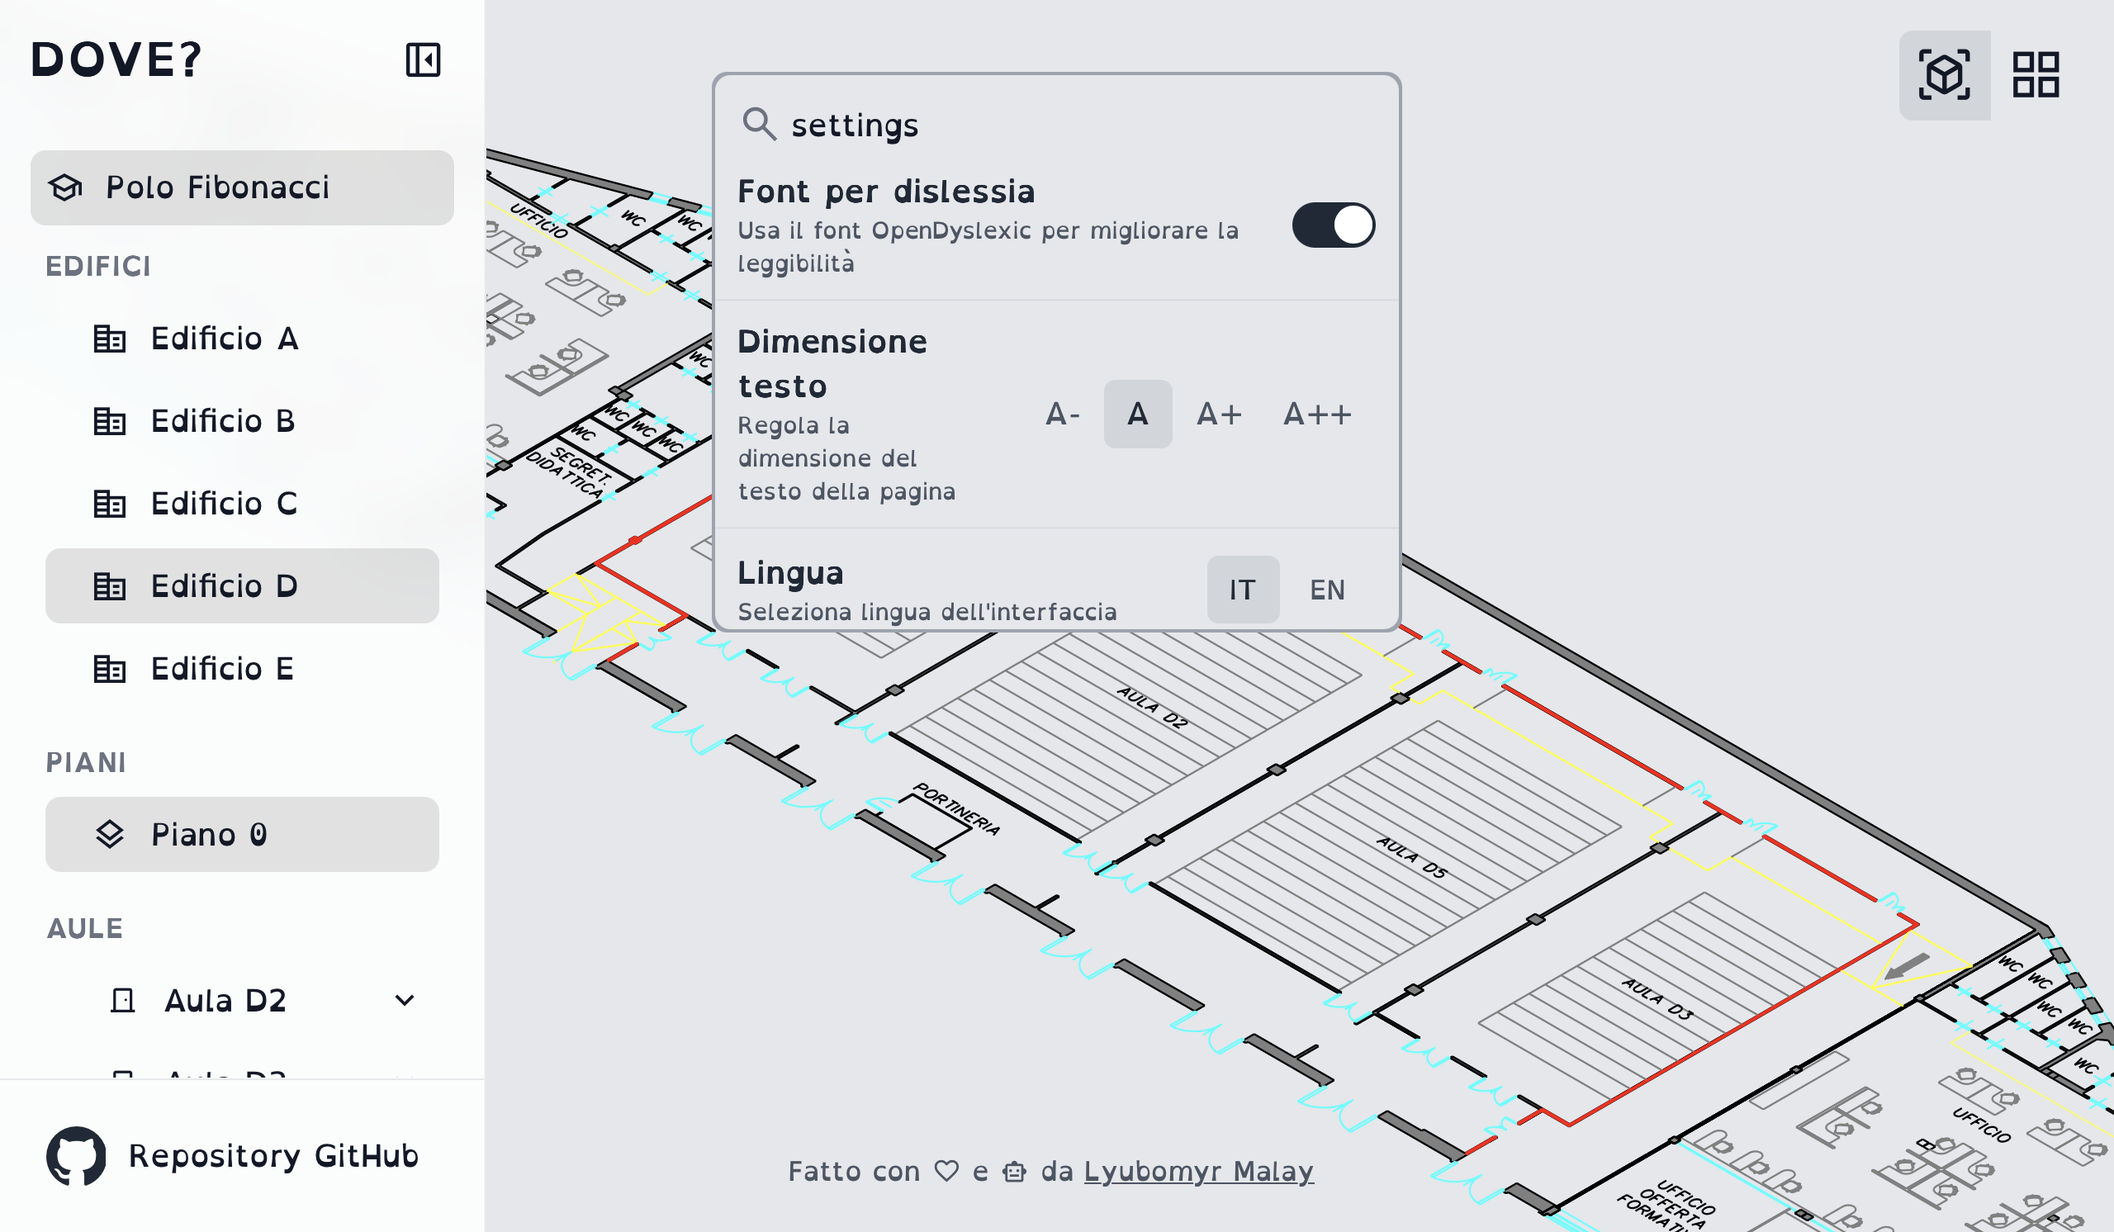
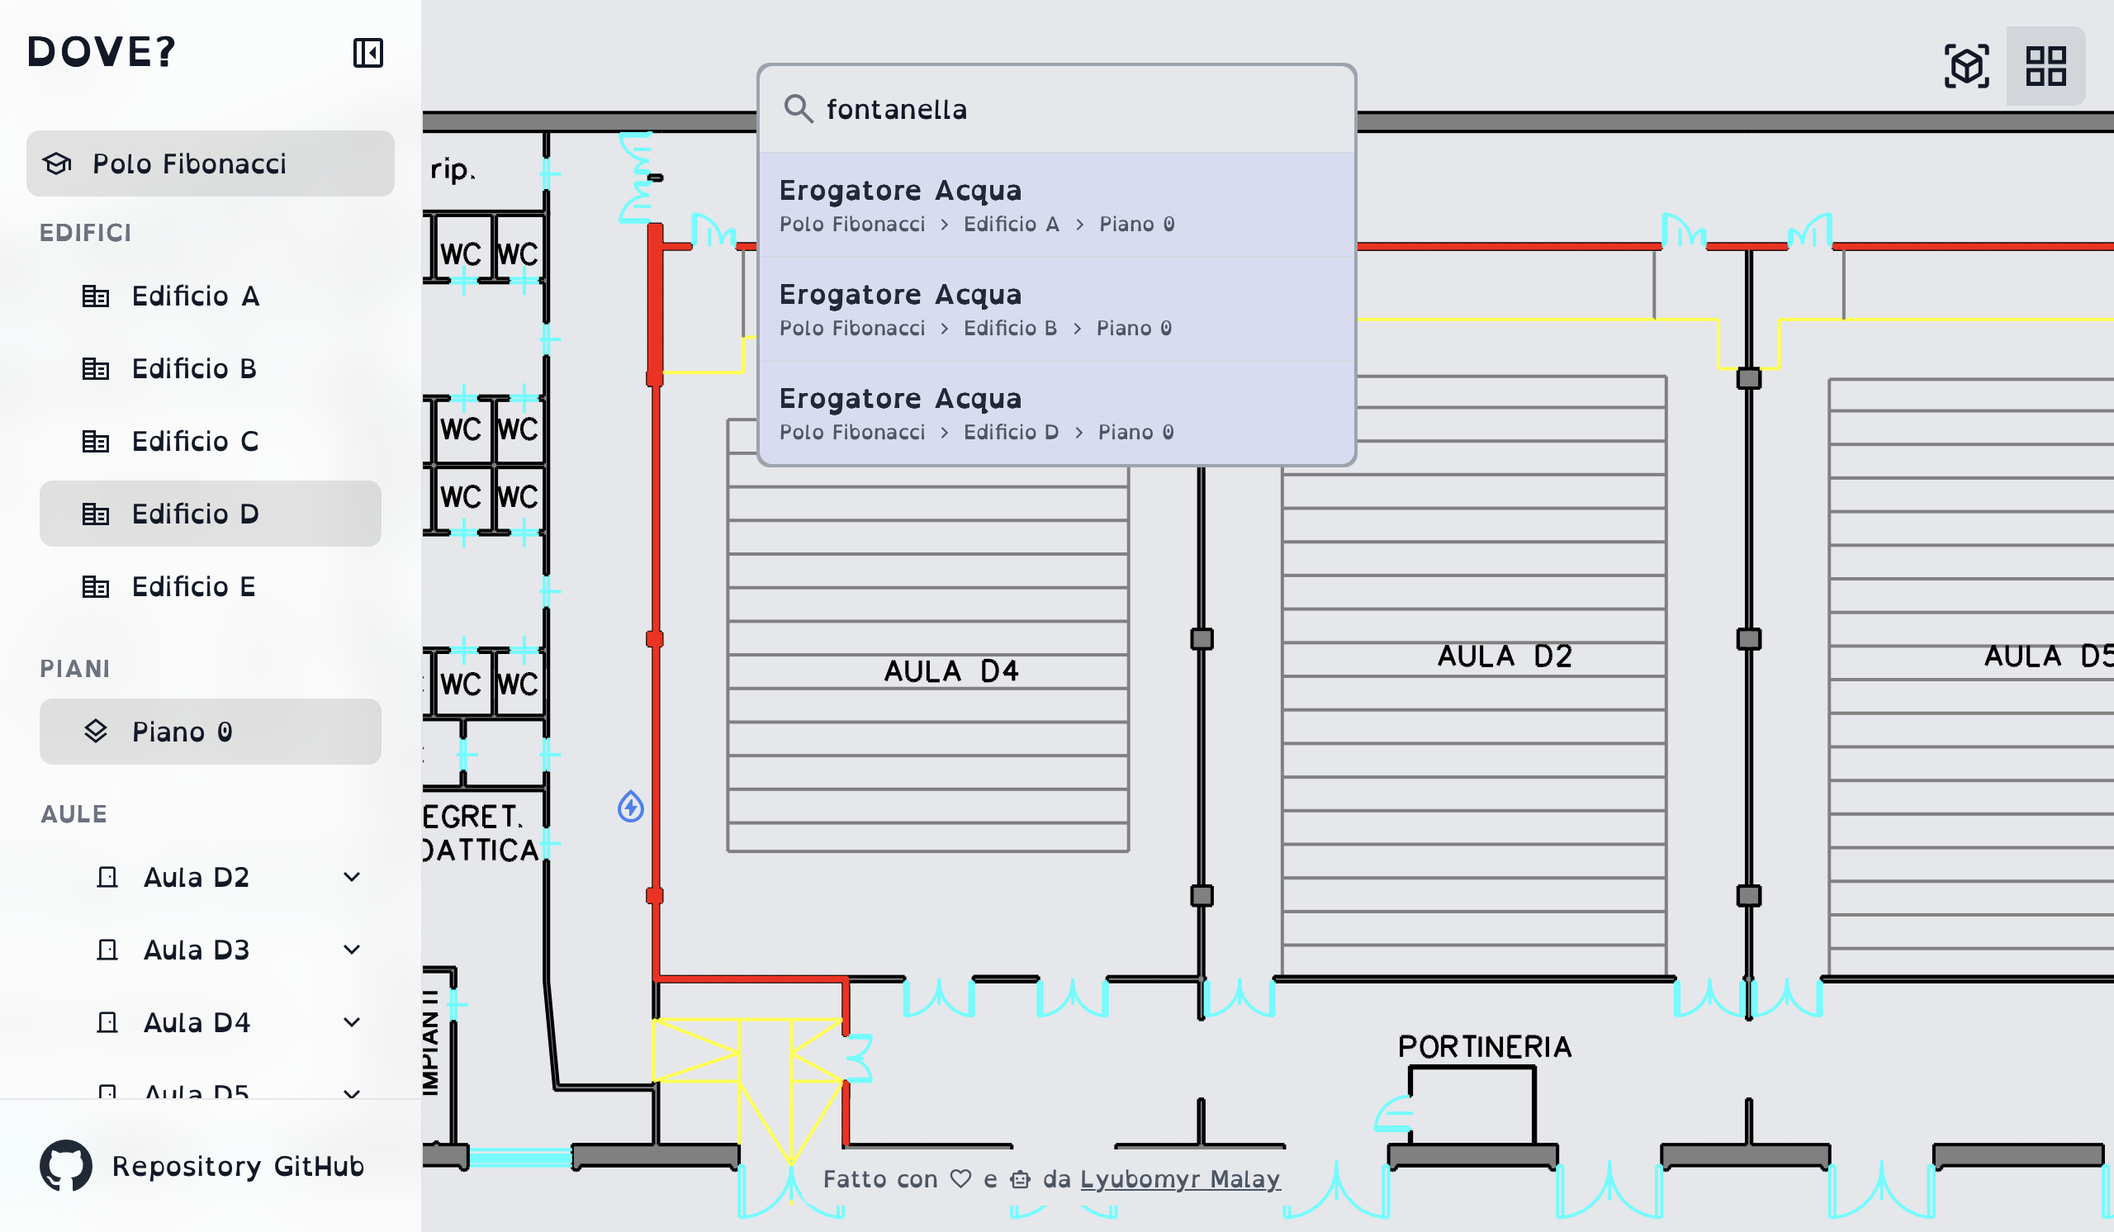
🦣
Aggiornato il flowchart
Aggiornato il readme con la sezione “Altri dati”.
Creato il file facilities.json, da popolare con i dati relativi ai distributori e altro.
Aggiunta la nuova funzionalità in alfa “Mostra erogatori d’acqua”.
Inseriti nuovi alias in rooms.json.
Aggiunto una "guida".

diff --git a/index.html b/index.html
@@ -182,8 +182,29 @@ RMMMMRMMMMME        EMMMMMMMMMMMMM!
             width: 100%; /* Forza la larghezza al 100% del contenitore */
             box-sizing: border-box; /* Include padding nel calcolo della larghezza */
         }
-        .search-result-item:hover {
-            background-color: rgba(0, 0, 0, 0.1); /* 10% black opacity */
+        .search-result-item {
+            position: relative;
+        }
+        .search-result-item::before {
+            content: '';
+            position: absolute;
+            top: 0;
+            left: 0;
+            right: 0;
+            bottom: 0;
+            background-color: transparent;
+            transition: background-color 0.2s ease-in-out;
+            pointer-events: none;
+        }
+        .search-result-item:hover::before {
+            background-color: rgba(0, 0, 0, 0.1);
+        }
+        .search-result-item.selected::before {
+            background-color: rgba(0, 0, 0, 0.1);
+        }
+        /* Stile specifico per gli erogatori d'acqua */
+        .search-result-item.water-dispenser {
+            background-color: rgb(216, 220, 242);
         }
         .search-result-item .title {
             color: #1F2937; /* gray-800 */
@@ -204,9 +225,6 @@ RMMMMRMMMMME        EMMMMMMMMMMMMM!
         .search-result-item:hover .title,
         .search-result-item:hover .details {
             color: #1F2937; /* gray-800 */
-        }
-        .search-result-item.selected {
-            background-color: rgba(0, 0, 0, 0.1); /* 10% black opacity */
         }
         .search-result-item.selected .title,
         .search-result-item.selected .details {
@@ -281,6 +299,12 @@ RMMMMRMMMMME        EMMMMMMMMMMMMM!
         /* Nascondi l'attribuzione di Leaflet */
         .leaflet-control-attribution {
             display: none;
+        }
+
+        /* Stili per i marker degli erogatori d'acqua */
+        .water-dispenser-marker {
+            background: none !important;
+            border: none !important;
         }
 
         /* Stili per i tooltip */
@@ -1207,6 +1231,7 @@ RMMMMRMMMMME        EMMMMMMMMMMMMM!
             const storedHighContrast = localStorage.getItem('highContrastEnabled');
             const storedDyslexicFont = localStorage.getItem('dyslexicFontEnabled');
             const storedTextSize = localStorage.getItem('textSizeEnabled');
+            const storedShowWaterDispensers = localStorage.getItem('showWaterDispensersEnabled');
             
             // Detect browser language automatically
             function detectBrowserLanguage() {
@@ -1223,6 +1248,7 @@ RMMMMRMMMMME        EMMMMMMMMMMMMM!
                 sharePath: storedSharePath ? storedSharePath === 'true' : true,
                 highContrast: storedHighContrast ? storedHighContrast === 'true' : false,
                 dyslexicFont: storedDyslexicFont ? storedDyslexicFont === 'true' : false,
+                showWaterDispensers: storedShowWaterDispensers ? storedShowWaterDispensers === 'true' : false,
                 language: storedLanguage
             };
 
@@ -1441,6 +1467,7 @@ RMMMMRMMMMME        EMMMMMMMMMMMMM!
             });
 
             let data = {};
+            let facilitiesData = {};
             let selectedPolo = '';
             let selectedBuilding = '';
             let selectedFloor = '0';
@@ -1448,6 +1475,7 @@ RMMMMRMMMMME        EMMMMMMMMMMMMM!
             let map = null; // Istanza Leaflet
             let svgOverlay = null; // Layer SVG corrente
             let selectedSearchResultIndex = -1;
+            let waterDispenserMarkers = []; // Array per i marker degli erogatori d'acqua
 
             // Sistema di lazy loading e caching per le mappe SVG
             const svgCache = new Map();
@@ -1625,6 +1653,7 @@ RMMMMRMMMMME        EMMMMMMMMMMMMM!
                     );
                 }
 
+                // Cerca nelle aule
                 for (const poloName in data.polo) {
                     const polo = data.polo[poloName];
                     for (const buildingName in polo.edificio) {
@@ -1660,6 +1689,40 @@ RMMMMRMMMMME        EMMMMMMMMMMMMM!
                         }
                     }
                 }
+
+                // Cerca negli erogatori d'acqua se la funzionalità è attiva
+                if (settingsConfig.showWaterDispensers && facilitiesData.polo) {
+                    for (const poloName in facilitiesData.polo) {
+                        const polo = facilitiesData.polo[poloName];
+                        if (!polo.edificio) continue;
+                        
+                        for (const buildingName in polo.edificio) {
+                            const building = polo.edificio[buildingName];
+                            if (!building.piano) continue;
+                            
+                            for (const floorName in building.piano) {
+                                const dispensers = building.piano[floorName];
+                                if (Array.isArray(dispensers)) {
+                                    dispensers.forEach(dispenser => {
+                                        const dispenserNameLower = dispenser.nome.toLowerCase();
+                                        const aliasLower = Array.isArray(dispenser.alias) ? dispenser.alias.map(a => a.toLowerCase()) : [];
+                                        
+                                        if (dispenserNameLower.includes(queryLower) || aliasLower.some(a => a.includes(queryLower))) {
+                                            results.push({
+                                                polo: poloName,
+                                                edificio: buildingName,
+                                                piano: floorName,
+                                                room: dispenser,
+                                                isWaterDispenser: true
+                                            });
+                                        }
+                                    });
+                                }
+                            }
+                        }
+                    }
+                }
+
                 displaySearchResults(results, matchesSettingsQuery);
             }
 
@@ -1718,6 +1781,13 @@ RMMMMRMMMMME        EMMMMMMMMMMMMM!
                         });
                     } else {
                         const capacityDetails = result.room && result.room.capienza != null ? result.room.capienza : null;
+                        const isWaterDispenser = result.isWaterDispenser || false;
+                        
+                        // Aggiungi classe per gli erogatori d'acqua
+                        if (isWaterDispenser) {
+                            resultElement.classList.add('water-dispenser');
+                        }
+                        
                         resultElement.innerHTML = `
                             <div class="title">${result.room.nome}</div>
                             <div class="details">
@@ -1771,6 +1841,13 @@ RMMMMRMMMMME        EMMMMMMMMMMMMM!
                         description: t('settings_extra_controls_description'),
                         checked: accessibilityToggle.checked,
                         onToggle: setExtraControlsSetting
+                    },
+                    {
+                        key: 'waterDispensers',
+                        label: t('settings_water_dispensers'),
+                        description: t('settings_water_dispensers_description'),
+                        checked: settingsConfig.showWaterDispensers,
+                        onToggle: setWaterDispensersSetting
                     },
                     {
                         key: 'highContrast',
@@ -2049,6 +2126,17 @@ RMMMMRMMMMME        EMMMMMMMMMMMMM!
                 syncSettingsToggles();
             }
 
+            function setWaterDispensersSetting(isEnabled) {
+                settingsConfig.showWaterDispensers = isEnabled;
+                localStorage.setItem('showWaterDispensersEnabled', isEnabled);
+                if (isEnabled) {
+                    showWaterDispensers();
+                } else {
+                    hideWaterDispensers();
+                }
+                syncSettingsToggles();
+            }
+
             function setTextSizeSetting(sizeClass) {
                 const textSizes = ['text-small', 'text-normal', 'text-large', 'text-xlarge'];
                 // Remove all text size classes
@@ -2117,6 +2205,9 @@ RMMMMRMMMMME        EMMMMMMMMMMMMM!
                             break;
                         case 'extraControls':
                             input.checked = accessibilityToggle.checked;
+                            break;
+                        case 'waterDispensers':
+                            input.checked = settingsConfig.showWaterDispensers;
                             break;
                         case 'highContrast':
                             input.checked = settingsConfig.highContrast;
@@ -2426,6 +2517,16 @@ RMMMMRMMMMME        EMMMMMMMMMMMMM!
                         const jsonData = await response.json();
                         data = jsonData;
                         dataLoaded = true;
+                        
+                        // Carica anche il file facilities.json
+                        try {
+                            const facilitiesResponse = await fetch('data/facilities.json');
+                            facilitiesData = await facilitiesResponse.json();
+                        } catch (facilitiesError) {
+                            console.error('Errore nel caricamento di facilities.json:', facilitiesError);
+                            facilitiesData = {}; // Fallback a oggetto vuoto
+                        }
+                        
                         populatePolos(Object.keys(data.polo));
                         handleInitialLoad(); // Ora le traduzioni sono sicuramente caricate
                     } catch (error) {
@@ -2727,6 +2828,12 @@ RMMMMRMMMMME        EMMMMMMMMMMMMM!
                 if (currentView === viewType && !forceReload) return;
 
                 currentView = viewType;
+                
+                // Nascondi i marker degli erogatori d'acqua quando si passa alla vista prospettica
+                if (viewType === 'perspective') {
+                    hideWaterDispensers();
+                }
+                
                 if (selectedFloor !== "?")
                     loadSVG(selectedBuilding, selectedFloor, currentView, viewParams, roomData);
 
@@ -2884,6 +2991,53 @@ RMMMMRMMMMME        EMMMMMMMMMMMMM!
                 }
             }
 
+            // Funzioni per gestire i marker degli erogatori d'acqua
+            function showWaterDispensers() {
+                if (!map || !facilitiesData || !selectedPolo || !selectedBuilding || !selectedFloor) return;
+                
+                // Rimuovi marker esistenti
+                hideWaterDispensers();
+                
+                try {
+                    const facilities = facilitiesData.polo?.[selectedPolo]?.edificio?.[selectedBuilding]?.piano?.[selectedFloor];
+                    if (!facilities || !Array.isArray(facilities)) return;
+                    
+                    facilities.forEach(facility => {
+                        if (facility.type === 'erogatore_acqua' && facility.coordinates) {
+                            const { x, y } = facility.coordinates;
+                            if (x != null && y != null) {
+                                // Crea un'icona HTML personalizzata con dimensioni fisse (non scala con lo zoom)
+                                const icon = L.divIcon({
+                                    html: `<span class="material-symbols-outlined" style="font-size: 24px; color: #3B82F6;">water_ec</span>`,
+                                    className: 'water-dispenser-marker',
+                                    iconSize: [24, 24],
+                                    iconAnchor: [12, 12]
+                                });
+                                
+                                const marker = L.marker([parseFloat(y), parseFloat(x)], { 
+                                    icon: icon,
+                                    interactive: false // Rende il marker non interattivo
+                                });
+                                
+                                marker.addTo(map);
+                                waterDispenserMarkers.push(marker);
+                            }
+                        }
+                    });
+                } catch (error) {
+                    console.error('Errore nel mostrare gli erogatori d\'acqua:', error);
+                }
+            }
+            
+            function hideWaterDispensers() {
+                if (!map) return;
+                
+                waterDispenserMarkers.forEach(marker => {
+                    map.removeLayer(marker);
+                });
+                waterDispenserMarkers = [];
+            }
+
             function loadSVG(building, floor, viewType = 'top', viewParams = null, roomData = null) {
                 // Controlla se la vista top è disponibile
                 checkForTopView(building, floor);
@@ -3025,6 +3179,11 @@ RMMMMRMMMMME        EMMMMMMMMMMMMM!
                 setTimeout(() => {
                     viewerContainer.classList.remove('loading');
                 }, 50);
+                
+                // Mostra gli erogatori d'acqua solo se il setting è attivo E la vista è "top"
+                if (settingsConfig.showWaterDispensers && currentView === 'top') {
+                    showWaterDispensers();
+                }
             }
 
             // Rimuovi la classe no-transition per abilitare le animazioni dopo il caricamento iniziale

diff --git a/README.md b/README.md
@@ -2,7 +2,7 @@
   <img src="assets/logo/logo.svg" alt="DOVE? UniPI Logo" width="200">
 </p>
 
-<h1 align="center"> DOVE? UniPi </h1>
+<h1 align="center"> DOVE?UniPi </h1>
 
 <p align="center">Un'applicazione web single-page (SPA) per esplorare gli edifici, i piani e le aule del Polo Fibonacci dell’Università di Pisa.</p>
 
@@ -14,6 +14,8 @@
 <p align="center">
   <img src="assets/screenshots/desktop.png" alt="Screenshot dell'applicazione su desktop">
 </p>
+
+> Per rendere il progetto ulteriormente **accessibile a TUTTI**, oltre a un'interfaccia intuitiva e diretta, è disponibile una [**guida**](assets/screenshots/spiegazione.png) che spiega i vari elementi e pulsanti dell'applicazione.
 
 
 ## Indice
@@ -33,6 +35,7 @@
     - [Keyboard shortcuts](#keyboard-shortcuts)
     - [Path sharing](#path-sharing)
     - [Lingue supportate](#lingue-supportate)
+    - [Altri dati](#altri-dati)
   - [Funzionalità che vorrei aggiungere](#funzionalità-che-vorrei-aggiungere)
 - [Problemi noti](#problemi-noti)
   
@@ -89,7 +92,8 @@ A dimostrazione di ciò, ecco alcuni messaggi reali presi da un gruppo Telegram:
 │   │   └── logo.svg
 │   └── screenshots/
 ├── data/
-│   └── rooms.json      <- file importante per far funzionare tutto
+│   ├── rooms.json      <- file importante per far funzionare tutto
+│   └── facilities.json 
 ├── locales             <- cartella per le traduzioni 
 │   └── en.json
 │   └── it.json
@@ -207,7 +211,10 @@ Contiene tutti i dati su edifici, piani e aule, e l'interfaccia viene costruita 
 graph LR
     A[Planimetrie UniPi] -->|Conversione DWG/SVG| B[Mappe Edifici]
     C[University Planner] -->|Dati Aule| D[rooms.json]
+    G[Contributori] -->|Raccolta Dati| H[facilities.json]
+    G -->|Raccolta Dati| D
     D --> E[Applicazione Web]
+    H --> E
     B --> E
     E --> F[Interfaccia Utente]
 ```
@@ -305,12 +312,15 @@ graph TB
 Effettua una ricerca non solo sul nome dell’aula ma anche sui suoi **alias**. Una volta selezionata, l’aula verrà automaticamente zoomata sulla sua posizione (ovviamente, se le coordinate sono presenti nel file rooms.json).
 
 Supporta inoltre **filtri avanzati**: ad esempio, scrivendo `> 200` verranno mostrate le aule con capienza superiore a 200.  
-Sono supportati gli operatori: `<`, `>`, `==`, `>=`, `<=`.
+Sono supportati gli operatori: `<`, `>`, `==`, `=`, `>=`, `<=`.
 
 Puoi accedere alle **impostazioni** digitando `impostazioni` o `settings` nella barra di ricerca.  
 Da lì puoi abilitare anche le **funzionalità sperimentali**.
 
 Digitando `condividi` o `share`, potrai facilmente copiare il **link al sito** o a questa **repository** per condividerlo.
+
+Usa le frecce <kbd>↑</kbd> e <kbd>↓</kbd> per scorrere i risultati e premi <kbd>Invio</kbd> per selezionarne uno.
+La ricerca si avvia automaticamente mentre digiti — non serve cliccare sulla barra di ricerca.
 
 <hr>
 
@@ -371,16 +381,34 @@ permetterà a chi apre il link di visualizzare **lo stesso polo, edificio, piano
 
 Se la funzione non dovesse funzionare, apri la **barra di ricerca**, digita `impostazioni` e verifica che le opzioni **“Condividi polo/edificio/piano”** e **“Condividi coordinate mappa”** siano attive.
 
-
-
 <hr>
 
 #### Lingue supportate
 
 Attualmente sono supportate due lingue: **italiano** e **inglese.**
+
 In futuro verranno aggiunte altre **lingue!**
 
-Vuoi contribuire? Apri una issue oppure inviami un’email a: lyubomyr.malay@icloud.com **Grazie!**
+> [!TIP]
+> **Vuoi contribuire con una traduzione?**  
+> Apri una [issue](https://github.com/plumkewe/dove-unipi/issues) oppure inviami un'email a: [lyubomyr.malay@icloud.com](mailto:lyubomyr.malay@icloud.com)  
+> **Grazie per il supporto!**
+
+<hr>
+
+#### Altri dati
+
+È disponibile in **versione alfa** la possibilità di visualizzare i **distributori d'acqua** presenti negli edifici del Polo Fibonacci.
+
+Per attivarla, apri la **barra di ricerca**, digita `impostazioni` e assicurati che l'opzione **"Mostra erogatori d'acqua (ALFA)"** sia attiva.
+
+Puoi cercare i distributori digitando `Dist...` nella barra di ricerca. I risultati saranno evidenziati con un **colore blu**, come omaggio al progetto [**CoSA** dell'Università di Pisa ↗](https://sostenibile.unipi.it)
+
+> [!TIP]
+> **Hai trovato distributori non mappati?**  
+> Ci servono dati sulla posizione di **distributori d'acqua**, **distributori di caffè**, **distributori di cibo...**
+> Apri una [issue](https://github.com/plumkewe/dove-unipi/issues) oppure inviami un'email a: [lyubomyr.malay@icloud.com](mailto:lyubomyr.malay@icloud.com)  
+> **Grazie per il supporto!**
 
 <hr>
 
